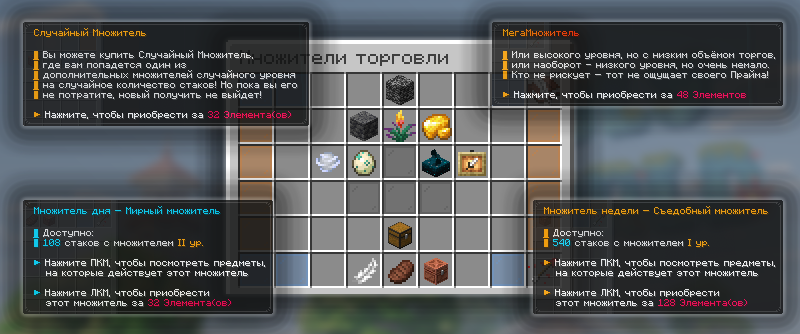
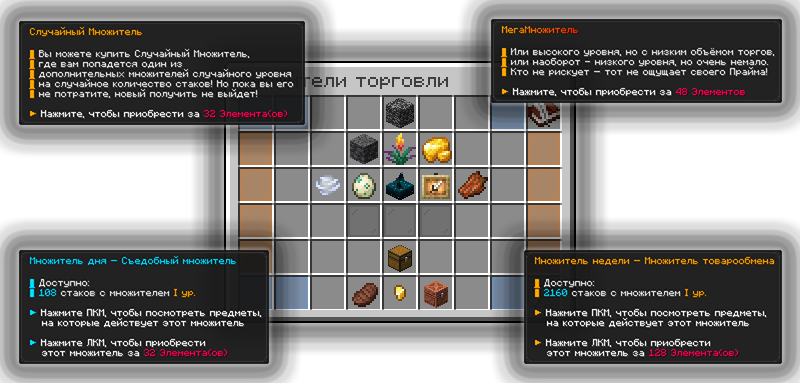
GITBOOK-26: Прайм. Обновленные скрины статьей

diff --git a/docs/prime-anarchy/money/buyer.md b/docs/prime-anarchy/money/buyer.md
@@ -8,7 +8,7 @@ icon: cart-shopping
 
 ## Как открыть Скупца
 
-<div data-with-frame="true"><figure><img src="../.gitbook/assets/b_main (1).png" alt=""><figcaption></figcaption></figure></div>
+<div data-with-frame="true"><figure><img src="../.gitbook/assets/b_main (2).png" alt=""><figcaption></figcaption></figure></div>
 
 Меню Скупца можно открыть несколькими способами: с помощью команды `/b` или `/buyer`, а также через НПС на спавне, которого зовут «Скупец».
 
@@ -16,7 +16,7 @@ icon: cart-shopping
 
 ### Как продавать ресурсы
 
-<div data-with-frame="true"><figure><img src="../.gitbook/assets/b_sell.png" alt=""><figcaption></figcaption></figure></div>
+<div data-with-frame="true"><figure><img src="../.gitbook/assets/b_sell (2).png" alt=""><figcaption></figcaption></figure></div>
 
 Продавать ресурсы можно во вкладке «Торговля» в главном меню Скупца `/b`. Здесь Скупец предлагает **15 различных товаров**, которые готов у вас приобрести. Найдите среди них нужный товар и нажмите по нему ПКМ, имея соответствующий ресурс в своём инвентаре.
 
@@ -56,7 +56,7 @@ icon: cart-shopping
 
 ### Множители монеток
 
-<div data-with-frame="true"><figure><img src="../.gitbook/assets/b_percent.png" alt=""><figcaption></figcaption></figure></div>
+<div data-with-frame="true"><figure><img src="../.gitbook/assets/b_percent (1).png" alt=""><figcaption></figcaption></figure></div>
 
 На многие товары может действовать **Множитель торговли**, который сделает их продажу ещё выгоднее. Множители бывают **трёх уровней**: I уровень даёт **+5%** к стоимости товара, II уровень — **+10%**, а III уровень — **+15%**.
 
@@ -73,7 +73,7 @@ icon: cart-shopping
 
 ## Этапы и награды
 
-<div data-with-frame="true"><figure><img src="../.gitbook/assets/b_page_and_rewards.png" alt=""><figcaption></figcaption></figure></div>
+<div data-with-frame="true"><figure><img src="../.gitbook/assets/b_page_and_rewards (1).png" alt=""><figcaption></figcaption></figure></div>
 
 Этапы Скупца — это своеобразный боевой пропуск, где есть лишь одна главная цель — **зарабатывать монетки, торгуя со Скупцом**. С каждым новым этапом требования становятся всё выше, поэтому для продвижения дальше придётся заработать ещё больше монеток.
 
@@ -83,7 +83,7 @@ icon: cart-shopping
 
 ## Ежедневная сделка
 
-<div data-with-frame="true"><figure><img src="../.gitbook/assets/b_daily (1).png" alt=""><figcaption></figcaption></figure></div>
+<div data-with-frame="true"><figure><img src="../.gitbook/assets/b_daily (2).png" alt=""><figcaption></figcaption></figure></div>
 
 Каждый день Скупец предлагает вам выполнить одну **Ежедневную сделку** — заработать определённое количество монеток, торгуя товарами из указанной категории. В качестве награды за выполнение сделки вы получите **одну случайную награду из доступного списка**.
 

diff --git a/docs/prime-anarchy/items/elements.md b/docs/prime-anarchy/items/elements.md
@@ -6,6 +6,8 @@ icon: sparkles
 
 Элементы — это не просто валюта, а ключевой ресурс Прайм Анархии на котором держится значительная часть игровых механик.
 
+<figure><img src="../.gitbook/assets/element_item (2).png" alt=""><figcaption></figcaption></figure>
+
 {% hint style="info" %}
 Этот особый ресурс нельзя хранить обычным способом, вам понадобится Элементная бочка.
 {% endhint %}
@@ -24,7 +26,7 @@ icon: sparkles
 
 ### Основные способы получения
 
-* Скрафтить из Крупиц — собрать 9 Крупиц и соединить их в верстаке → получится 1 Элемент.
+* Скрафтить из Крупиц — [собрать 9 Крупиц и соединить их в верстаке](#user-content-fn-1)[^1] → получится 1 Элемент.
 * Ивент «Древний город» — занять 1-е место по нанесённому Зловещему Вардену урону. Победитель получает 2–4 дополнительных награды; среди них с шансом 90% могут выпасть 24–56 Элементов.
 * Камеры испытаний — Элементы и Крупицы можно получать из определённых ваз. Например, «Награда» даёт 4–8 Элементов, особенная «Награда» — 16–32, а за убийство мобов из ваз «Череп», «Угроза» и т. п. можно получить 2–4 Элемента или 32–48 Крупиц.
 * Гриферство — находить и грабить Элементные бочки других игроков.
@@ -48,9 +50,11 @@ icon: sparkles
 
 ## Элементная бочка
 
+<div data-with-frame="true"><figure><img src="../.gitbook/assets/element_chest_prew.png" alt=""><figcaption></figcaption></figure></div>
+
 Элементная бочка — это особое хранилище где можно хранить Элементы. Использовать обычные сундуки или другие хранилища для Элементов нельзя.
 
-| Крафт           | <p><img src="../.gitbook/assets/element_chest.png" alt="" data-size="original"></p><p>1 медный сундук + 8 Элементов</p> |
+| Крафт           | <p><img src="../.gitbook/assets/inventory (1).png" alt="" data-size="original"></p><p>1 медный сундук + 8 Элементов</p> |
 | --------------- | ----------------------------------------------------------------------------------------------------------------------- |
 | Внешний признак | У бочки есть характерный блеск, поэтому её можно отличить от обычной бочки.                                             |
 | Ограничение     | Элементы нельзя хранить в Аду и Энде.                                                                                   |
@@ -59,3 +63,6 @@ icon: sparkles
 Бочка специально сделана заметной и ограниченной по размещению, чтобы хранение Элементов было рискованным и другие игроки могли охотиться за ними.
 {% endhint %}
 
+
+
+[^1]: <img src="../.gitbook/assets/inventory (3).png" alt="" data-size="original">

diff --git a/docs/prime-anarchy/items/custom_items.md b/docs/prime-anarchy/items/custom_items.md
@@ -15,10 +15,10 @@ icon: star
 
 ## Динамиты
 
-| Предмет            | Описание                                                                                                                                                                          | Как получить                                                                                                                                                                |
-| ------------------ | --------------------------------------------------------------------------------------------------------------------------------------------------------------------------------- | --------------------------------------------------------------------------------------------------------------------------------------------------------------------------- |
-| Удлиненный динамит | Это модифицированная версия обычного динамита. Главное отличие — увеличенное время до детонации: он взрывается через 8 секунд после поджига, тогда как обычный — через 4 секунды. | <p>Для создания требуется:</p><p>1 × обычный динамит<br>2 × порох<br>2 × песок</p><p><img src="../.gitbook/assets/customitems_longtnt.png" alt="" data-size="original"></p> |
-| Динамитный бур     | —                                                                                                                                                                                 | —                                                                                                                                                                           |
+| Предмет            | Описание                                                                                                                                                                          | Как получить                                                                                                                                                      |
+| ------------------ | --------------------------------------------------------------------------------------------------------------------------------------------------------------------------------- | ----------------------------------------------------------------------------------------------------------------------------------------------------------------- |
+| Удлиненный динамит | Это модифицированная версия обычного динамита. Главное отличие — увеличенное время до детонации: он взрывается через 8 секунд после поджига, тогда как обычный — через 4 секунды. | <p>Для создания требуется:</p><p>1 × обычный динамит<br>2 × порох<br>2 × песок</p><p><img src="../.gitbook/assets/inventory.png" alt="" data-size="original"></p> |
+| Динамитный бур     | —                                                                                                                                                                                 | —                                                                                                                                                                 |
 
 ## Необычные предметы
 

diff --git a/docs/prime-anarchy/money/auction.md b/docs/prime-anarchy/money/auction.md
@@ -8,13 +8,13 @@ icon: gavel
 
 ## Как открыть аукцион
 
-<div data-with-frame="true"><figure><img src="../.gitbook/assets/ah-main.png" alt=""><figcaption><p>Главное меню Аукциона /ah</p></figcaption></figure></div>
+<div data-with-frame="true"><figure><img src="../.gitbook/assets/ah-main (1).png" alt=""><figcaption><p>Главное меню Аукциона /ah</p></figcaption></figure></div>
 
 Меню Аукциона можно открыть с помощью команды `/ah`.
 
 ## Как купить предмет
 
-<div data-with-frame="true"><figure><img src="../.gitbook/assets/ah-item (1).png" alt=""><figcaption><p>Пример, как выглядит товар на Аукционе</p></figcaption></figure></div>
+<div data-with-frame="true"><figure><img src="../.gitbook/assets/ah-item (2).png" alt=""><figcaption><p>Пример, как выглядит товар на Аукционе</p></figcaption></figure></div>
 
 Чтобы приобрести предмет, выберите подходящий лот в меню Аукциона `/ah` и нажмите на его иконку. Если у вас достаточно монеток, покупка будет успешно совершена.
 
@@ -30,7 +30,7 @@ icon: gavel
 
 Чтобы убрать предмет с продажи, откройте меню Аукциона `/ah` и нажмите на иконку «Товары на продаже». В открывшемся меню будут отображаться все товары, которые вы выставили на продажу.
 
-### Как увеличить количество слотов для  продажи
+### Как увеличить количество слотов для продажи
 
 Чтобы увеличить количество слотов для продажи, откройте меню Аукциона `/ah` и найдите иконку «Помощь по маркету». Здесь можно посмотреть текущее количество доступных слотов, а при наличии гемов приобрести дополнительные слоты.
 

diff --git a/docs/prime-anarchy/money/exchange.md b/docs/prime-anarchy/money/exchange.md
@@ -8,7 +8,7 @@ icon: display-chart-up-circle-currency
 
 ## Как открыть биржу
 
-<div data-with-frame="true"><figure><img src="../.gitbook/assets/exchange_main.png" alt=""><figcaption></figcaption></figure></div>
+<div data-with-frame="true"><figure><img src="../.gitbook/assets/exchange_main (1).png" alt=""><figcaption></figcaption></figure></div>
 
 Меню Биржи можно открыть с помощью команды `/exchange`.
 
@@ -34,7 +34,7 @@ icon: display-chart-up-circle-currency
 
 ### Маркет
 
-<div data-with-frame="true"><figure><img src="../.gitbook/assets/exchange_market (2).png" alt=""><figcaption></figcaption></figure></div>
+<div data-with-frame="true"><figure><img src="../.gitbook/assets/exchange_market (3).png" alt=""><figcaption></figcaption></figure></div>
 
 Обменять жетоны на монетки можно в главном меню Биржи `/exchange`. Выберите подходящую заявку и нажмите на её иконку. При этом вы можете выкупить **как всё доступное количество монеток сразу, так и только их часть**.
 
@@ -44,6 +44,6 @@ icon: display-chart-up-circle-currency
 
 ## Как обменять монетки на коины
 
-<div data-with-frame="true"><figure><img src="../.gitbook/assets/exchange_sell (1).png" alt=""><figcaption></figcaption></figure></div>
+<div data-with-frame="true"><figure><img src="../.gitbook/assets/exchange_sell (2).png" alt=""><figcaption></figcaption></figure></div>
 
 Обменять монетки на жетоны можно в главном меню Биржи `/exchange`. Для этого создайте заявку на продажу монет, нажав на специальную иконку в меню. После этого откроется окно, где вы сможете указать, сколько жетонов хотите получить за свои монетки.

diff --git a/docs/prime-anarchy/items/regions.md b/docs/prime-anarchy/items/regions.md
@@ -6,6 +6,8 @@ icon: house-lock
 
 Приваты (регионы) — это способ защиты территории от посторонних игроков с помощью специальных блоков. Каждый такой блок создаёт защищённую зону, в которой только владелец и добавленные им игроки могут строить и ломать блоки.
 
+<div data-with-frame="true"><figure><img src="../.gitbook/assets/privat_info.png" alt=""><figcaption></figcaption></figure></div>
+
 ## Как заприватить территорию
 
 Чтобы заприватить территорию, достаточно взять подходящий **блок привата** и установить его на свободной территории. Главное — убедиться, что в выбранном месте нет другого региона, который пересекается с будущим приватом. Если территория свободна, после установки блока она будет защищена.

diff --git a/docs/prime-anarchy/events/iventy.md b/docs/prime-anarchy/events/iventy.md
@@ -9,6 +9,8 @@ tags:
 
 ## Какие ивенты сейчас проходят?
 
+<div data-with-frame="true"><figure><img src="../.gitbook/assets/event_check.png" alt=""><figcaption></figcaption></figure></div>
+
 Чтобы не пропустить самое интересное, следить за ивентами на Прайме довольно просто:
 
 * Пропишите `/event` — в левом верхнем углу появится иконка, через которую можно посмотреть, **какие ивенты проходят прямо сейчас**, а также узнать время до ближайшего события.
@@ -272,4 +274,3 @@ tags:
 {% endhint %}
 
 </details>
-
